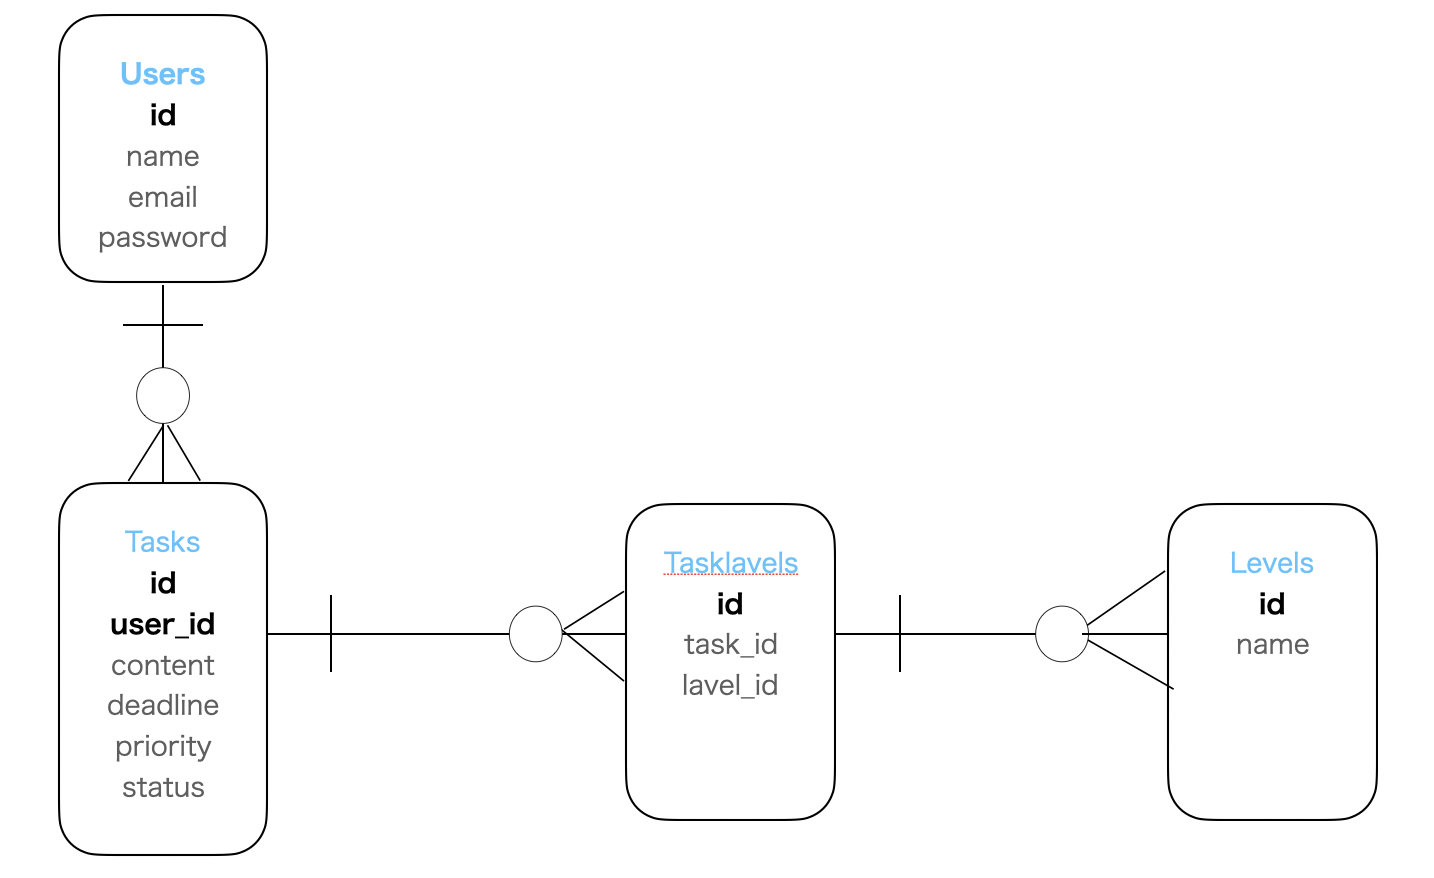
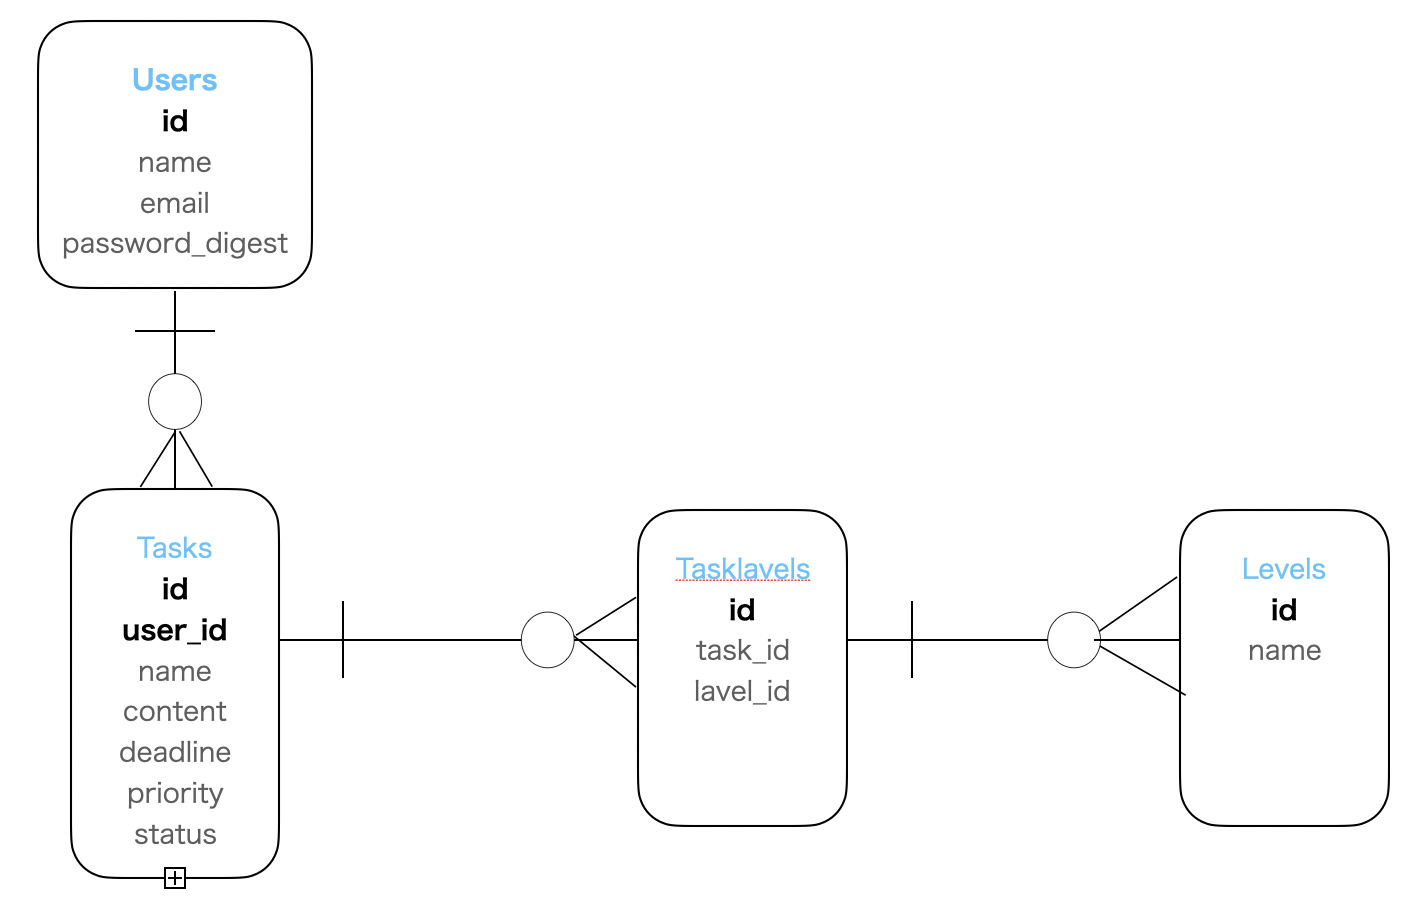
タスクモデル作成・DB制約の設定

diff --git a/db/schema.rb b/db/schema.rb
@@ -1,0 +1,12 @@
+ActiveRecord::Schema.define(version: 2020_10_06_133106) do
+
+  enable_extension "plpgsql"
+
+  create_table "tasks", force: :cascade do |t|
+    t.string "name", null: false
+    t.text "content", null: false
+    t.datetime "created_at", null: false
+    t.datetime "updated_at", null: false
+  end
+
+end

diff --git a/config/routes.rb b/config/routes.rb
@@ -1,3 +1,10 @@
 Rails.application.routes.draw do
+  get 'tasks/index'
+  get 'tasks/show'
+  get 'tasks/new'
+  get 'tasks/create'
+  get 'tasks/edit'
+  get 'tasks/update'
+  get 'tasks/destroy'
   # For details on the DSL available within this file, see http://guides.rubyonrails.org/routing.html
 end

diff --git a/db/migrate/20201006133106_change_column_null_tasks.rb b/db/migrate/20201006133106_change_column_null_tasks.rb
@@ -1,0 +1,6 @@
+class ChangeColumnNullTasks < ActiveRecord::Migration[5.2]
+  def change
+    change_column :tasks, :name, :string, null: false
+    change_column :tasks, :content, :text, null: false
+  end
+end

diff --git a/db/migrate/20201004215741_create_tasks.rb b/db/migrate/20201004215741_create_tasks.rb
@@ -1,0 +1,10 @@
+class CreateTasks < ActiveRecord::Migration[5.2]
+  def change
+    create_table :tasks do |t|
+      t.string :name
+      t.text :content
+
+      t.timestamps
+    end
+  end
+end

diff --git a/test/models/task_test.rb b/test/models/task_test.rb
@@ -1,0 +1,7 @@
+require 'test_helper'
+
+class TaskTest < ActiveSupport::TestCase
+  # test "the truth" do
+  #   assert true
+  # end
+end

diff --git a/app/models/task.rb b/app/models/task.rb
@@ -1,0 +1,2 @@
+class Task < ApplicationRecord
+end

diff --git a/README.md b/README.md
@@ -10,6 +10,7 @@ tasks
 |column|data_type|
 |---|---|
 |id|integer|
+|name|string|
 |content|text|
 |deadline|datetime|
 |priority|string|
